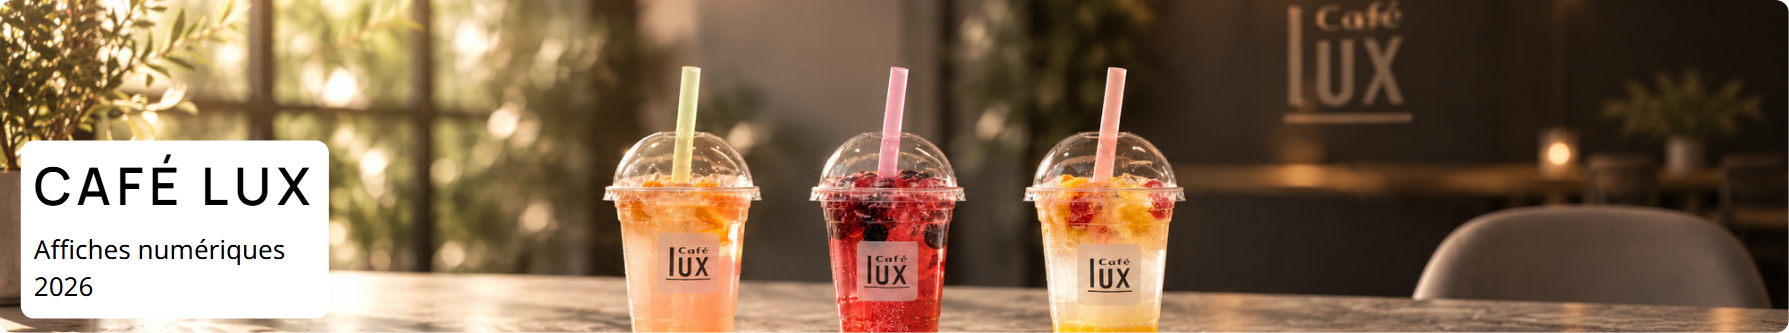
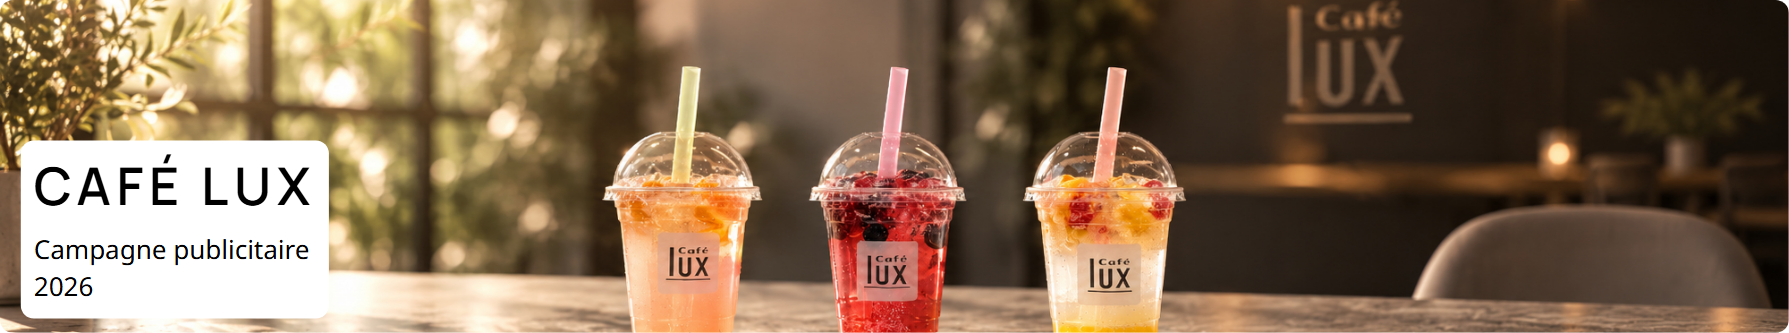
Projets du portfolio : SAT à la place de Librairie Icitte
Les cartes suivent les cinq projets du site, dans son ordre : Hibakes,
Satellite, Café Lux, SAT, Goals. Café Lux devient une campagne
publicitaire (texte et étiquette de la carte), comme sur le site.

Changed region(s): [[0.0, 0.7207, 0.1845, 0.7808]]

diff --git a/README.md b/README.md
@@ -31,10 +31,10 @@ Je conçois des **outils** sur mesure et des **visuels** soignés qui simplifien
 </h3>
 
 <p><a href="https://korinnagladhill.com/projets/hibakes/"><img src="images/projet-hibakes.png" width="100%" alt="Projet Hibakes, site web d’une boulangerie en ligne : tarte aux fruits garnie de pêches, de mûres, de fraises et de crème."></a></p>
-<p><a href="https://korinnagladhill.com/projets/goals/"><img src="images/projet-goals.png" width="100%" alt="Projet Goals, application web d’organisation assistée par l’IA : coureuse sur une route au coucher du soleil."></a></p>
-<p><a href="https://korinnagladhill.com/projets/librairie-icitte/"><img src="images/projet-librairie-icitte.png" width="100%" alt="Projet Librairie Icitte, site web d’une librairie de Longueuil : rayonnages remplis de livres neufs et d’occasion à l’intérieur de la librairie."></a></p>
-<p><a href="https://korinnagladhill.com/projets/cafe-lux/"><img src="images/projet-cafe-lux.png" width="100%" alt="Projet Café Lux, affiches numériques pour un café de Granby : trois boissons fruitées glacées sur le comptoir du café."></a></p>
 <p><a href="https://korinnagladhill.com/projets/satellite/"><img src="images/projet-satellite.png" width="100%" alt="Projet Satellite, design du site d’un produit audio fictif : casques et écouteurs Satellite posés sur des socles blancs."></a></p>
+<p><a href="https://korinnagladhill.com/projets/cafe-lux/"><img src="images/projet-cafe-lux.png" width="100%" alt="Projet Café Lux, campagne publicitaire pour un café de Granby : trois boissons fruitées glacées sur le comptoir du café."></a></p>
+<p><a href="https://korinnagladhill.com/projets/sat/"><img src="images/projet-sat.png" width="100%" alt="Projet SAT, affiches pour le Service d’accueil et de transition : affiche « Tous les lundis, B-18, café gratuit », avec un latte dans une tasse bleue."></a></p>
+<p><a href="https://korinnagladhill.com/projets/goals/"><img src="images/projet-goals.png" width="100%" alt="Projet Goals, application web d’organisation assistée par l’IA : coureuse sur une route au coucher du soleil."></a></p>
 
 <p><a href="https://korinnagladhill.com/projets/"><img src="images/bouton-projets.png" height="45" alt="Voir tous mes projets"></a></p>
 
